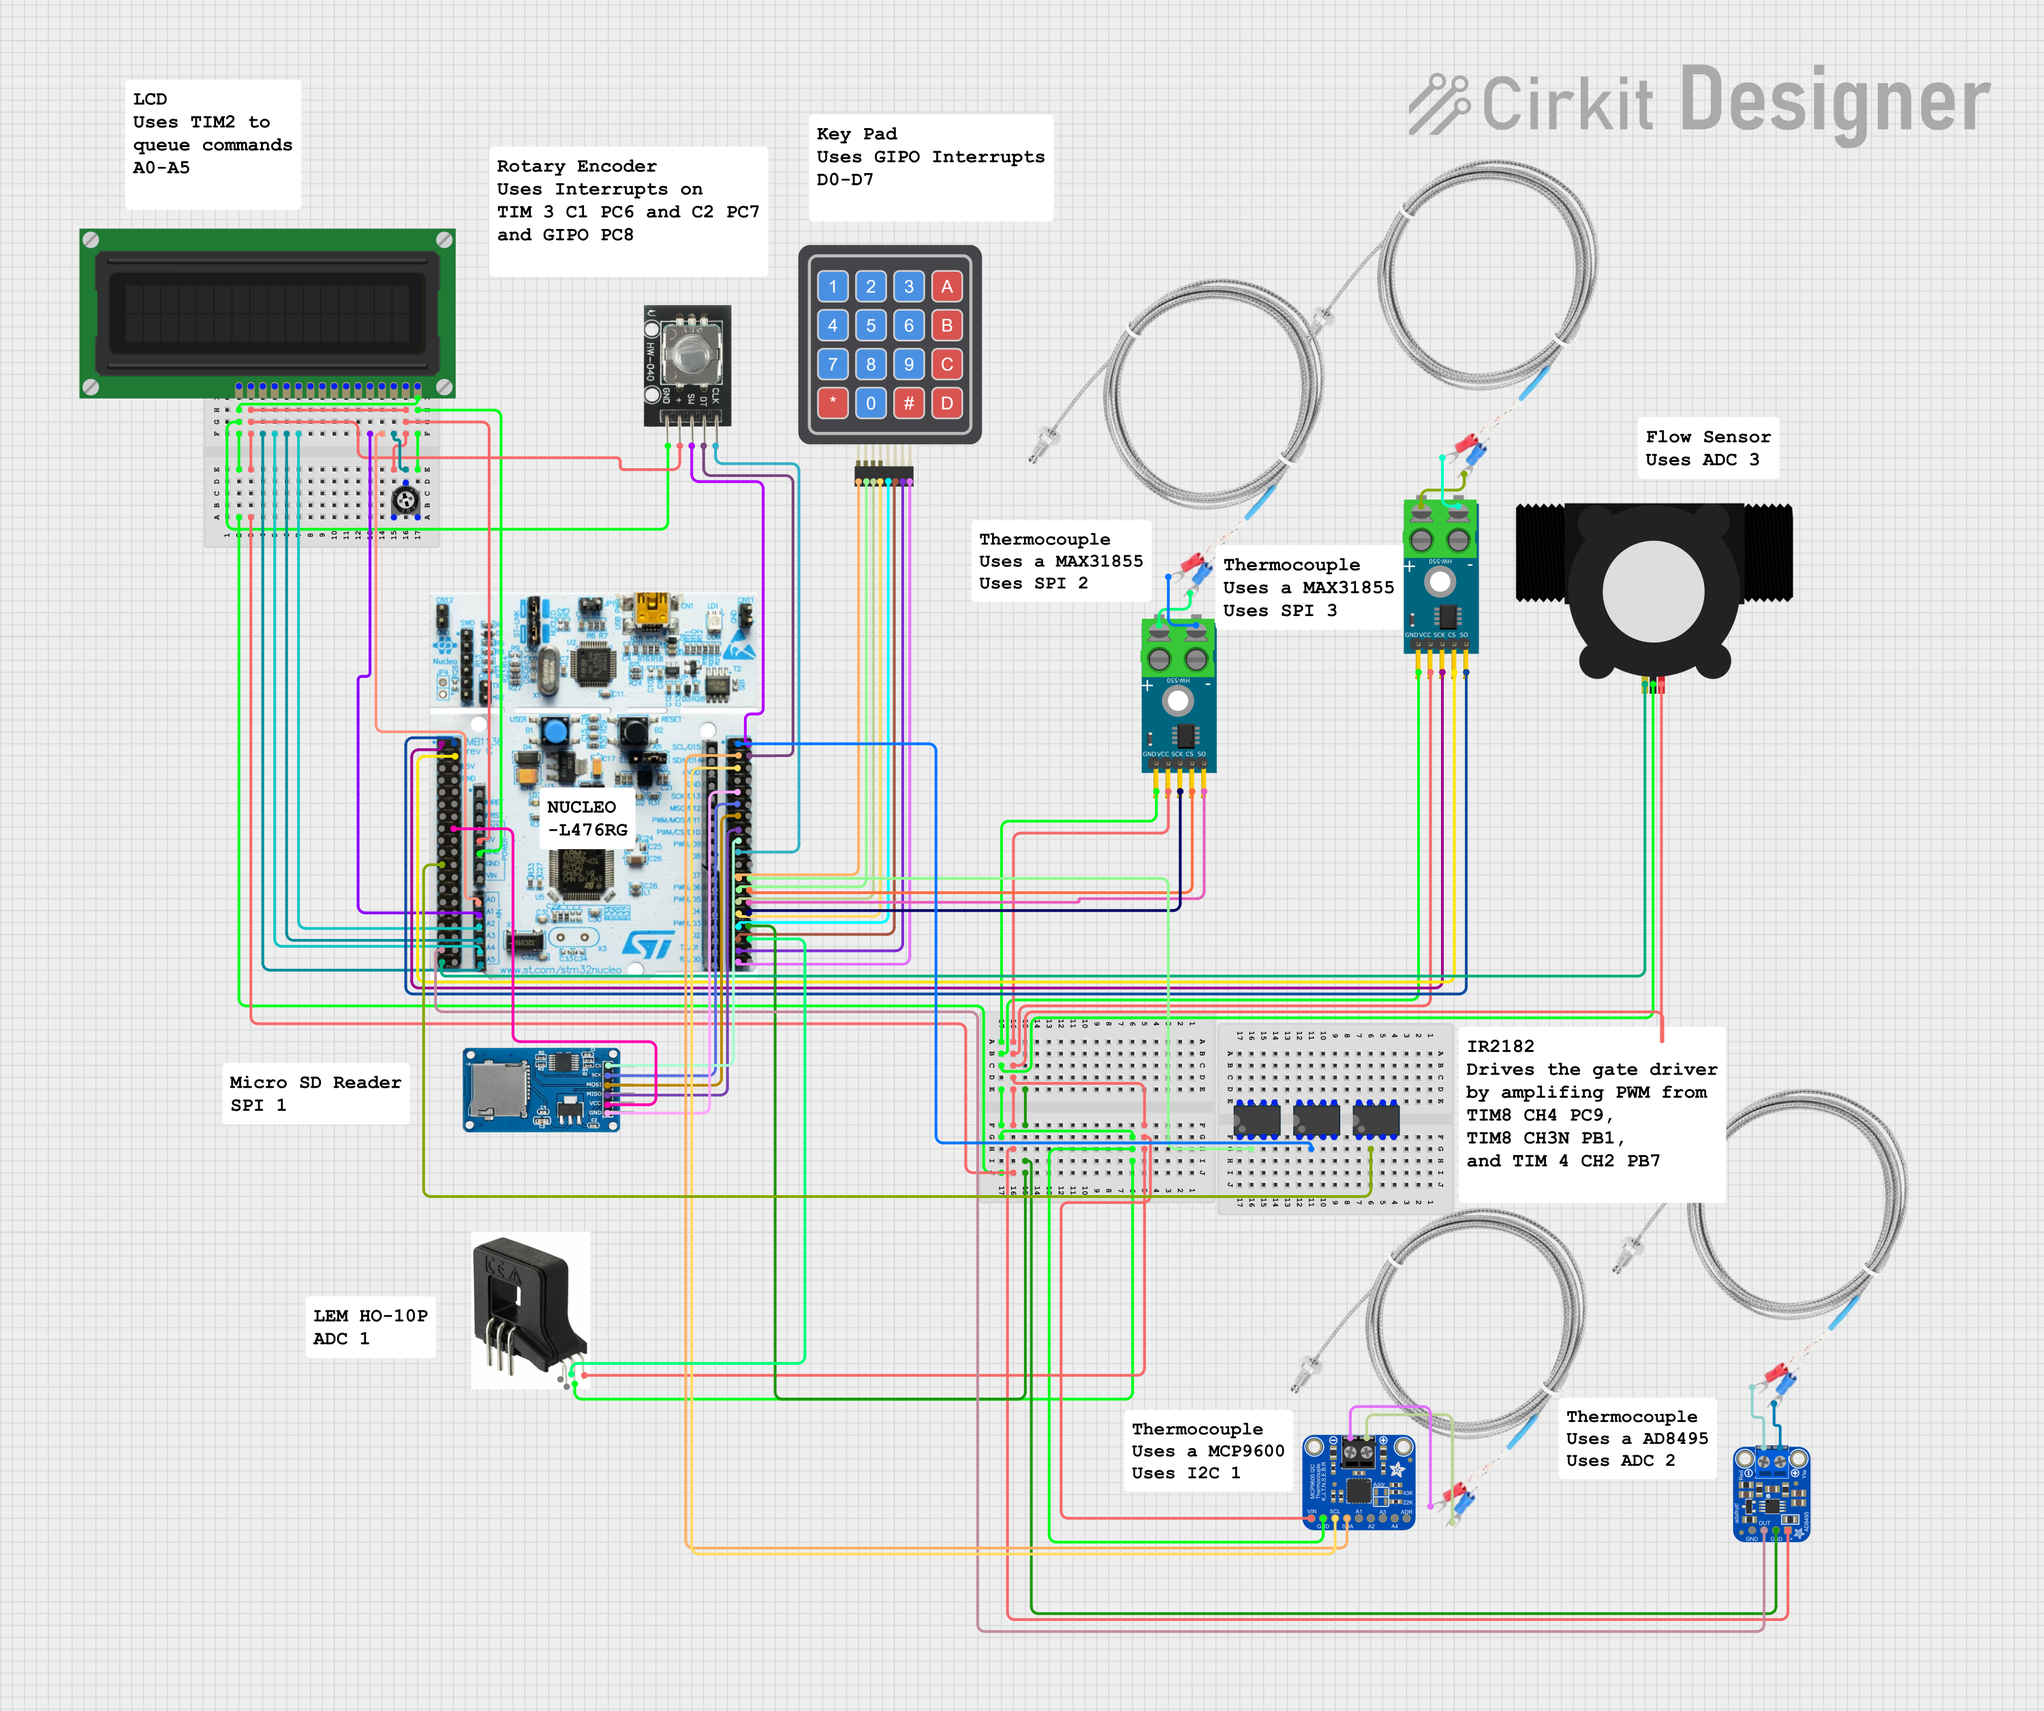
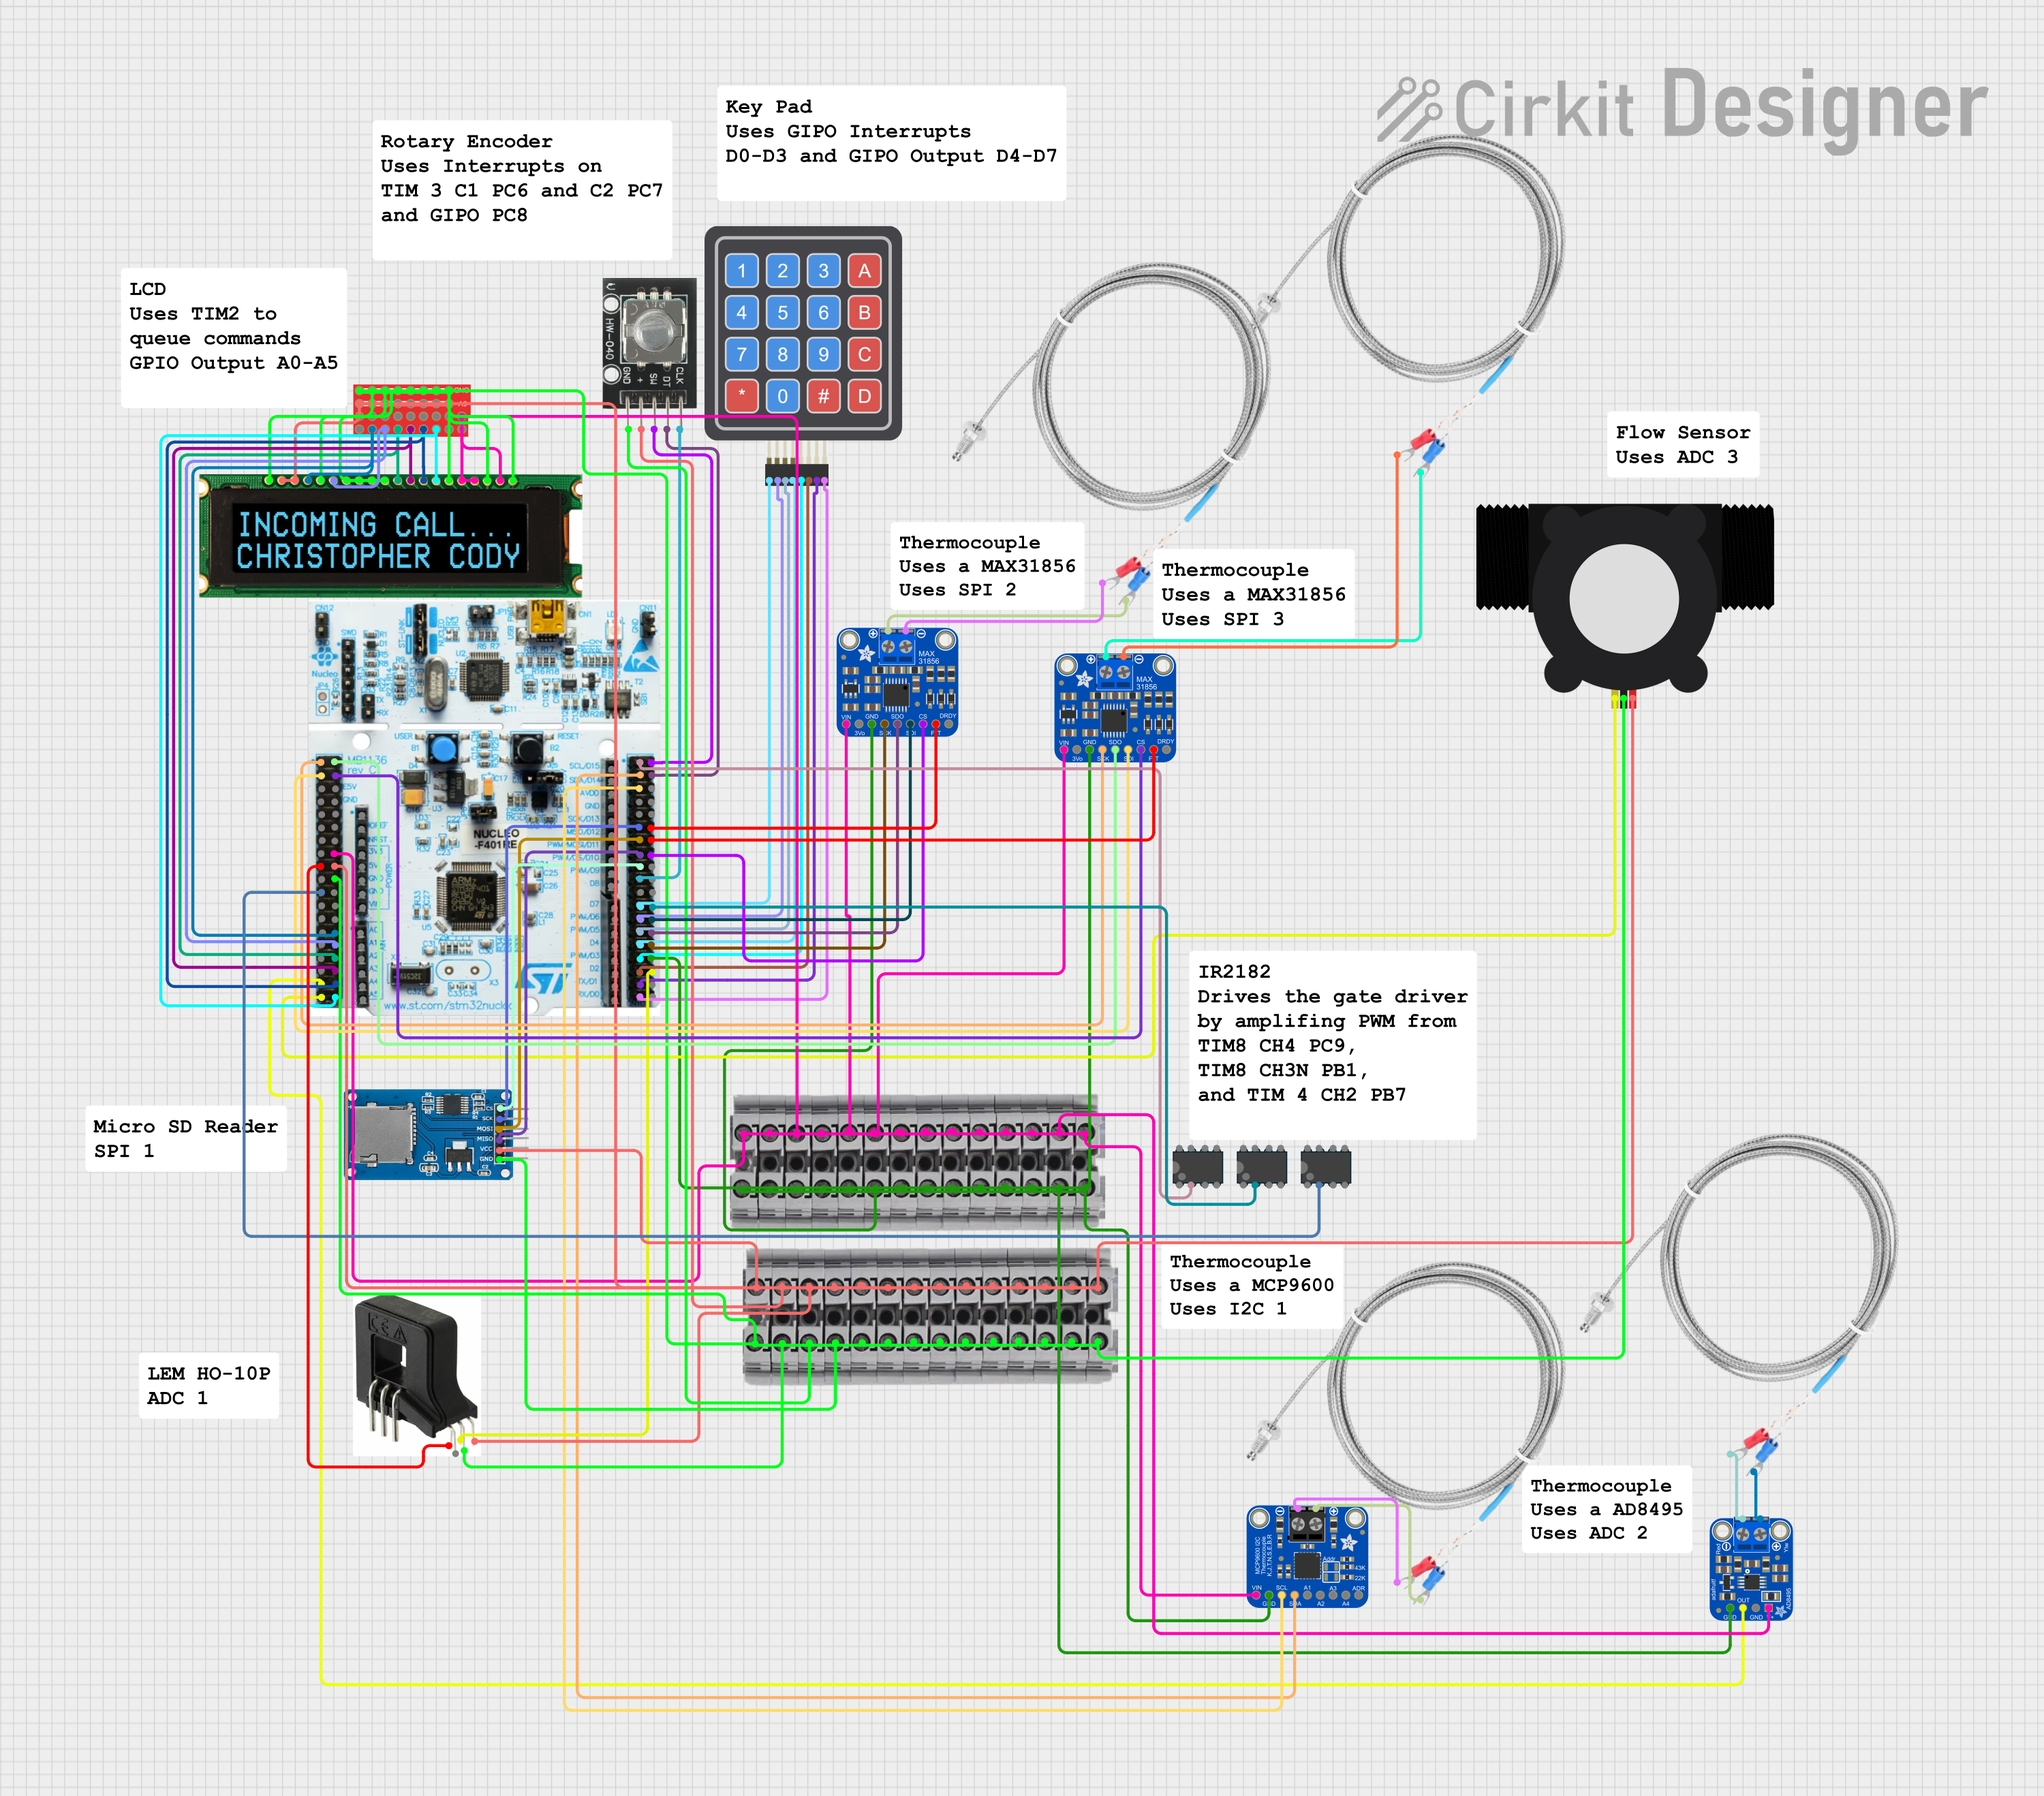
commented out requirements and updated connection diagram

diff --git a/Reports/Detailed Design Embedded.md b/Reports/Detailed Design Embedded.md
@@ -1,6 +1,6 @@
 # Detailed Design
 
-This document delineates the objectives of a comprehensive system design. Upon reviewing this design, the reader should have a clear understanding of:
+<!-- This document delineates the objectives of a comprehensive system design. Upon reviewing this design, the reader should have a clear understanding of:
 
 - How the specific subsystem integrates within the broader solution
 - The constraints and specifications relevant to the subsystem
@@ -22,13 +22,13 @@ The document should include:
 - A comprehensive Bill of Materials (BOM)
 - Analysis of crucial design decisions
 
-*Note: These technical documentation elements are mandatory only when relevant to the particular subsystem.
+*Note: These technical documentation elements are mandatory only when relevant to the particular subsystem. -->
 
 
 
 ## Function of the Subsystem
 
-This segment should elucidate the role of the subsystem within the entire system, detailing its intended function, aligned with the conceptual design.
+<!-- This segment should elucidate the role of the subsystem within the entire system, detailing its intended function, aligned with the conceptual design. -->
 
 The Embedded Subsystem describes the software for the microcontroller, the connections the microcontroller, and the connections to the sensors, power PCB, etc. The software on the microcontroller will control the heating of the pipe and the water, check for faults with in the system, display to the lcd, interpret sensors and use inputs. The connections will be via terminal blocks on other peripherals and on the shield PCB for the microcontroller. 
 
@@ -52,16 +52,16 @@ Overview:
 
 
 
-This section should provide a list of constraints applicable to the subsystem, along with the rationale behind these limitations. For instance, constraints can stem from physics-based limitations or requirements, subsystem prerequisites, standards, ethical considerations, or socio-economic factors.
+<!-- This section should provide a list of constraints applicable to the subsystem, along with the rationale behind these limitations. For instance, constraints can stem from physics-based limitations or requirements, subsystem prerequisites, standards, ethical considerations, or socio-economic factors.
 
 The team should set specifications for each subsystem. These specifications may require modifications, which must be authorized by the team. It could be necessary to impose additional constraints as further information becomes available.
 
-Every subsystem must incorporate at least one constraint stemming from standards, ethics, or socio-economic factors.
+Every subsystem must incorporate at least one constraint stemming from standards, ethics, or socio-economic factors. -->
 
 
 ## Overview of Proposed Solution
 
-Describe the solution and how it will fulfill the specifications and constraints of this subsystem.
+<!-- Describe the solution and how it will fulfill the specifications and constraints of this subsystem. -->
 
 
 
@@ -99,7 +99,7 @@ Specifics:
  6. AD8495 Amplification of a Thermocouple.
    AD8495 Amplification of a Thermocouple will amplify the thermocouple voltage so that the board can ADC the voltage to get a temperature. This thermocouple converter will be for the pipe that is being heated. The signal be received to ADC 1 CH14 on PC4.
  7. Keypad
-   The Keypad will be check via on PIN D0-D3 assigned to interrupts. Then D4-D7 will be scan to determine which button was pressed. The keypad will be able to set values for the system and change the mode of the LCD.
+   The Keypad will be check via on PIN D0-D3 assigned to interrupts. Then D4-D7 will be output pins and will be scanned to determine which button was pressed. The keypad will be able to set values for the system and change the mode of the LCD.
  8. Rotary Encoder
    The Rotary Encoder will be able to change values for the system as well depending on the mode of the lcd. This uses TIM 3 in encoder mode on channels 1 and 2 on interrupts to determine if the encoder has changed position. PC6 is TIM 3 CH1 and PC7 is TIM 3 CH2. the Buttons use on PC8 is TBD.
  9. Flow Sensor
@@ -125,9 +125,9 @@ Specifics:
    The system fault Signal signal will be a GPIO output on PC5
 ## Buildable Schematic 
 
-Integrate a buildable electrical schematic directly into the document. If the diagram is unreadable or improperly scaled, the supervisor will deny approval. Divide the diagram into sections if the text and components seem too small.
+<!-- Integrate a buildable electrical schematic directly into the document. If the diagram is unreadable or improperly scaled, the supervisor will deny approval. Divide the diagram into sections if the text and components seem too small.
 
-The schematic should be relevant to the design and provide ample details necessary for constructing the model. It must be comprehensive so that someone, with no prior knowledge of the design, can easily understand it. Each related component's value and measurement should be clearly mentioned.
+The schematic should be relevant to the design and provide ample details necessary for constructing the model. It must be comprehensive so that someone, with no prior knowledge of the design, can easily understand it. Each related component's value and measurement should be clearly mentioned. -->
 ![Embedded System Connection Diagram](./Embedded_System/Embedded_System_Connection_Diagram.png)
 
 ## Printed Circuit Board Layout
@@ -172,7 +172,9 @@ Provide a comprehensive list of all necessary components along with their prices
 
 Deliver a full and relevant analysis of the design demonstrating that it should meet the constraints and accomplish the intended function. This analysis should be comprehensive and well articulated for persuasiveness.
 
-Interrupts will be used over polling for user inputs as actions for inputs will only need to take up the thread when the users interacts with a interface. Reading the sensors temperature sensors will be polled with PID logic as the temperature sensors do not need to be as fast. The shut off temperatures for the objects the sensors are measuring can be programed on amplifier the signal directly a fault after the temperature passes a certain threshold. The direct wiring of fault signals from the amplifier would speed up a issue disabling the circuit. Due to majority of the pins on the microcontroller being used, the termocouples will need to be amplified in different ways. There is only 3 ADC, 3 API, and 3 I2C. Since the system has 6 interfaces/sensors, they have to be spread across the ways of interfacing. The thermocouple that is reading the pipe can have the amplifier setup to fault pass a certain temperature. The direct fault signal will speed up the disabling of the system bypassing SPI. To set the threshold fault temperature SPI MOSI will be used. The IGBT termocouples on the power board will have a similar capability. 
+Interrupts will be used over polling for user inputs as actions for inputs will only need to take up the thread when the users interacts with a interface. The keypad is for buttons to control the lcd and set values. A rotary controller will also be used to set values. Then fault display signals from the sensors will be on interrupts. For less important display and setting of inputs they will be on Interrupts so CPU time is not wasted.
+
+Reading the sensors temperature sensors will be polled with PID logic as the temperature sensors do not need to be as fast. The shut off temperatures for the objects the sensors are measuring can be programed on amplifier the signal directly a fault after the temperature passes a certain threshold. The direct wiring of fault signals from the amplifier would speed up a issue disabling the circuit. Due to majority of the pins on the microcontroller being used, the termocouples will need to be amplified in different ways. There is only 3 ADC, 3 API, and 3 I2C. Since the system has 6 interfaces/sensors, they have to be spread across the ways of interfacing. The thermocouple that is reading the pipe can have the amplifier setup to fault pass a certain temperature. The direct fault signal will speed up the disabling of the system bypassing SPI. To set the threshold fault temperature SPI MOSI will be used. The IGBT termocouples on the power board will have a similar capability. 
 
 ## References
 
